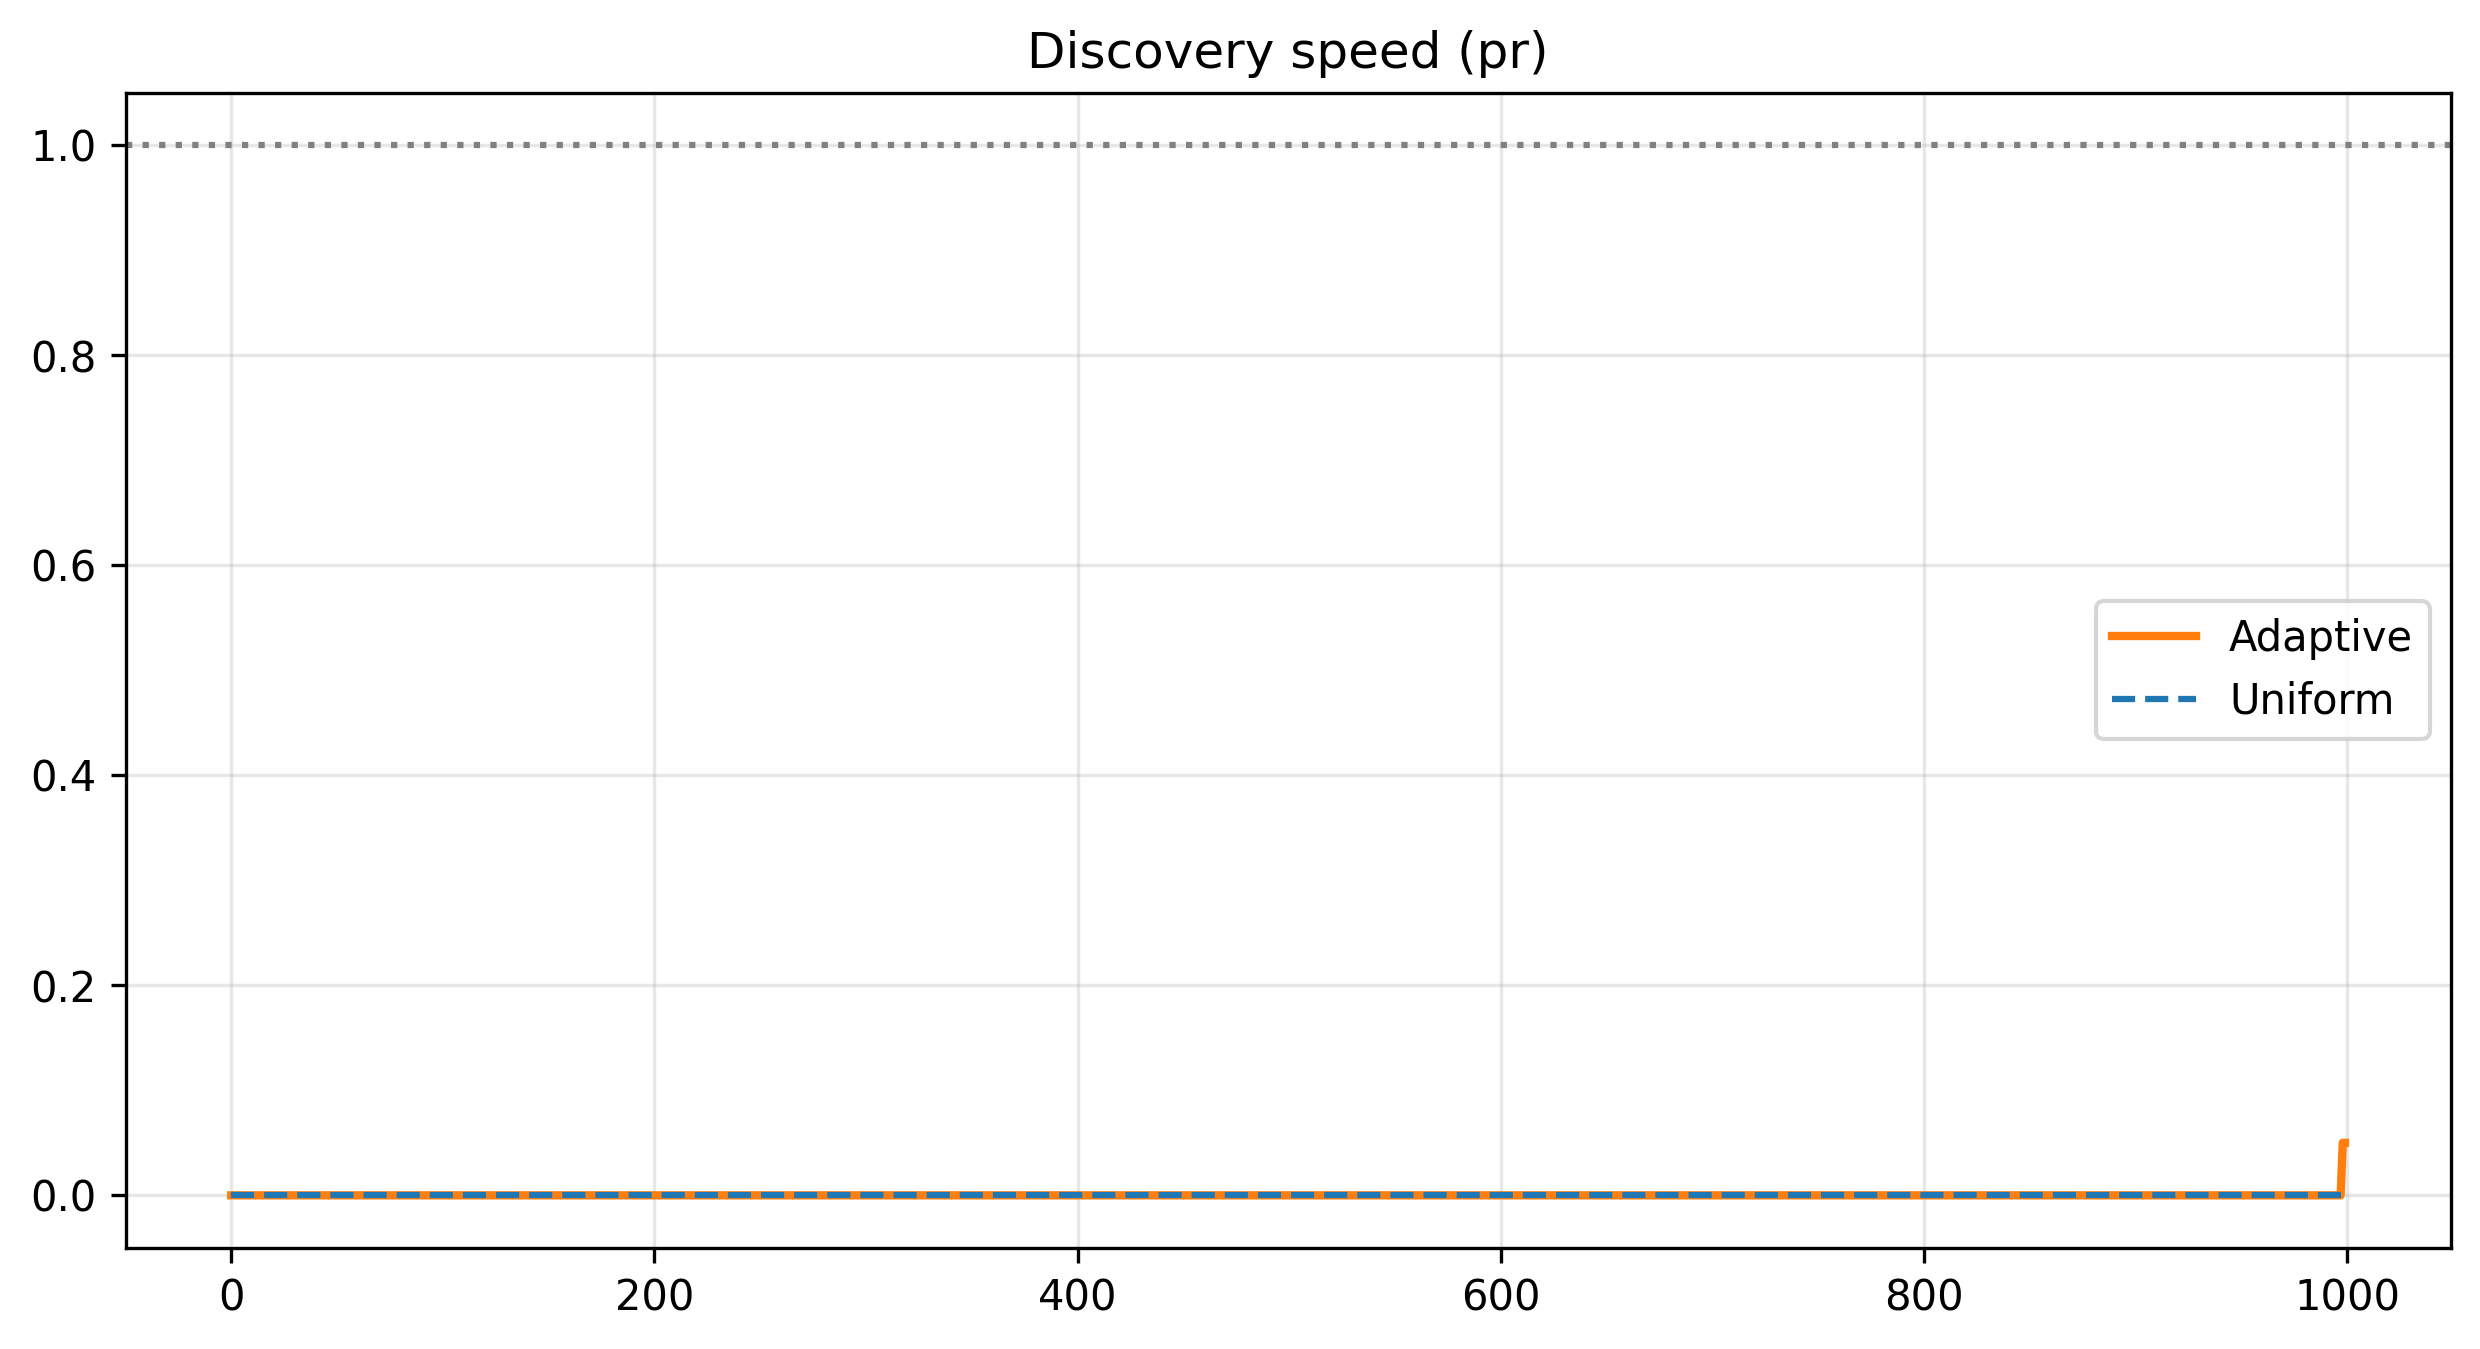
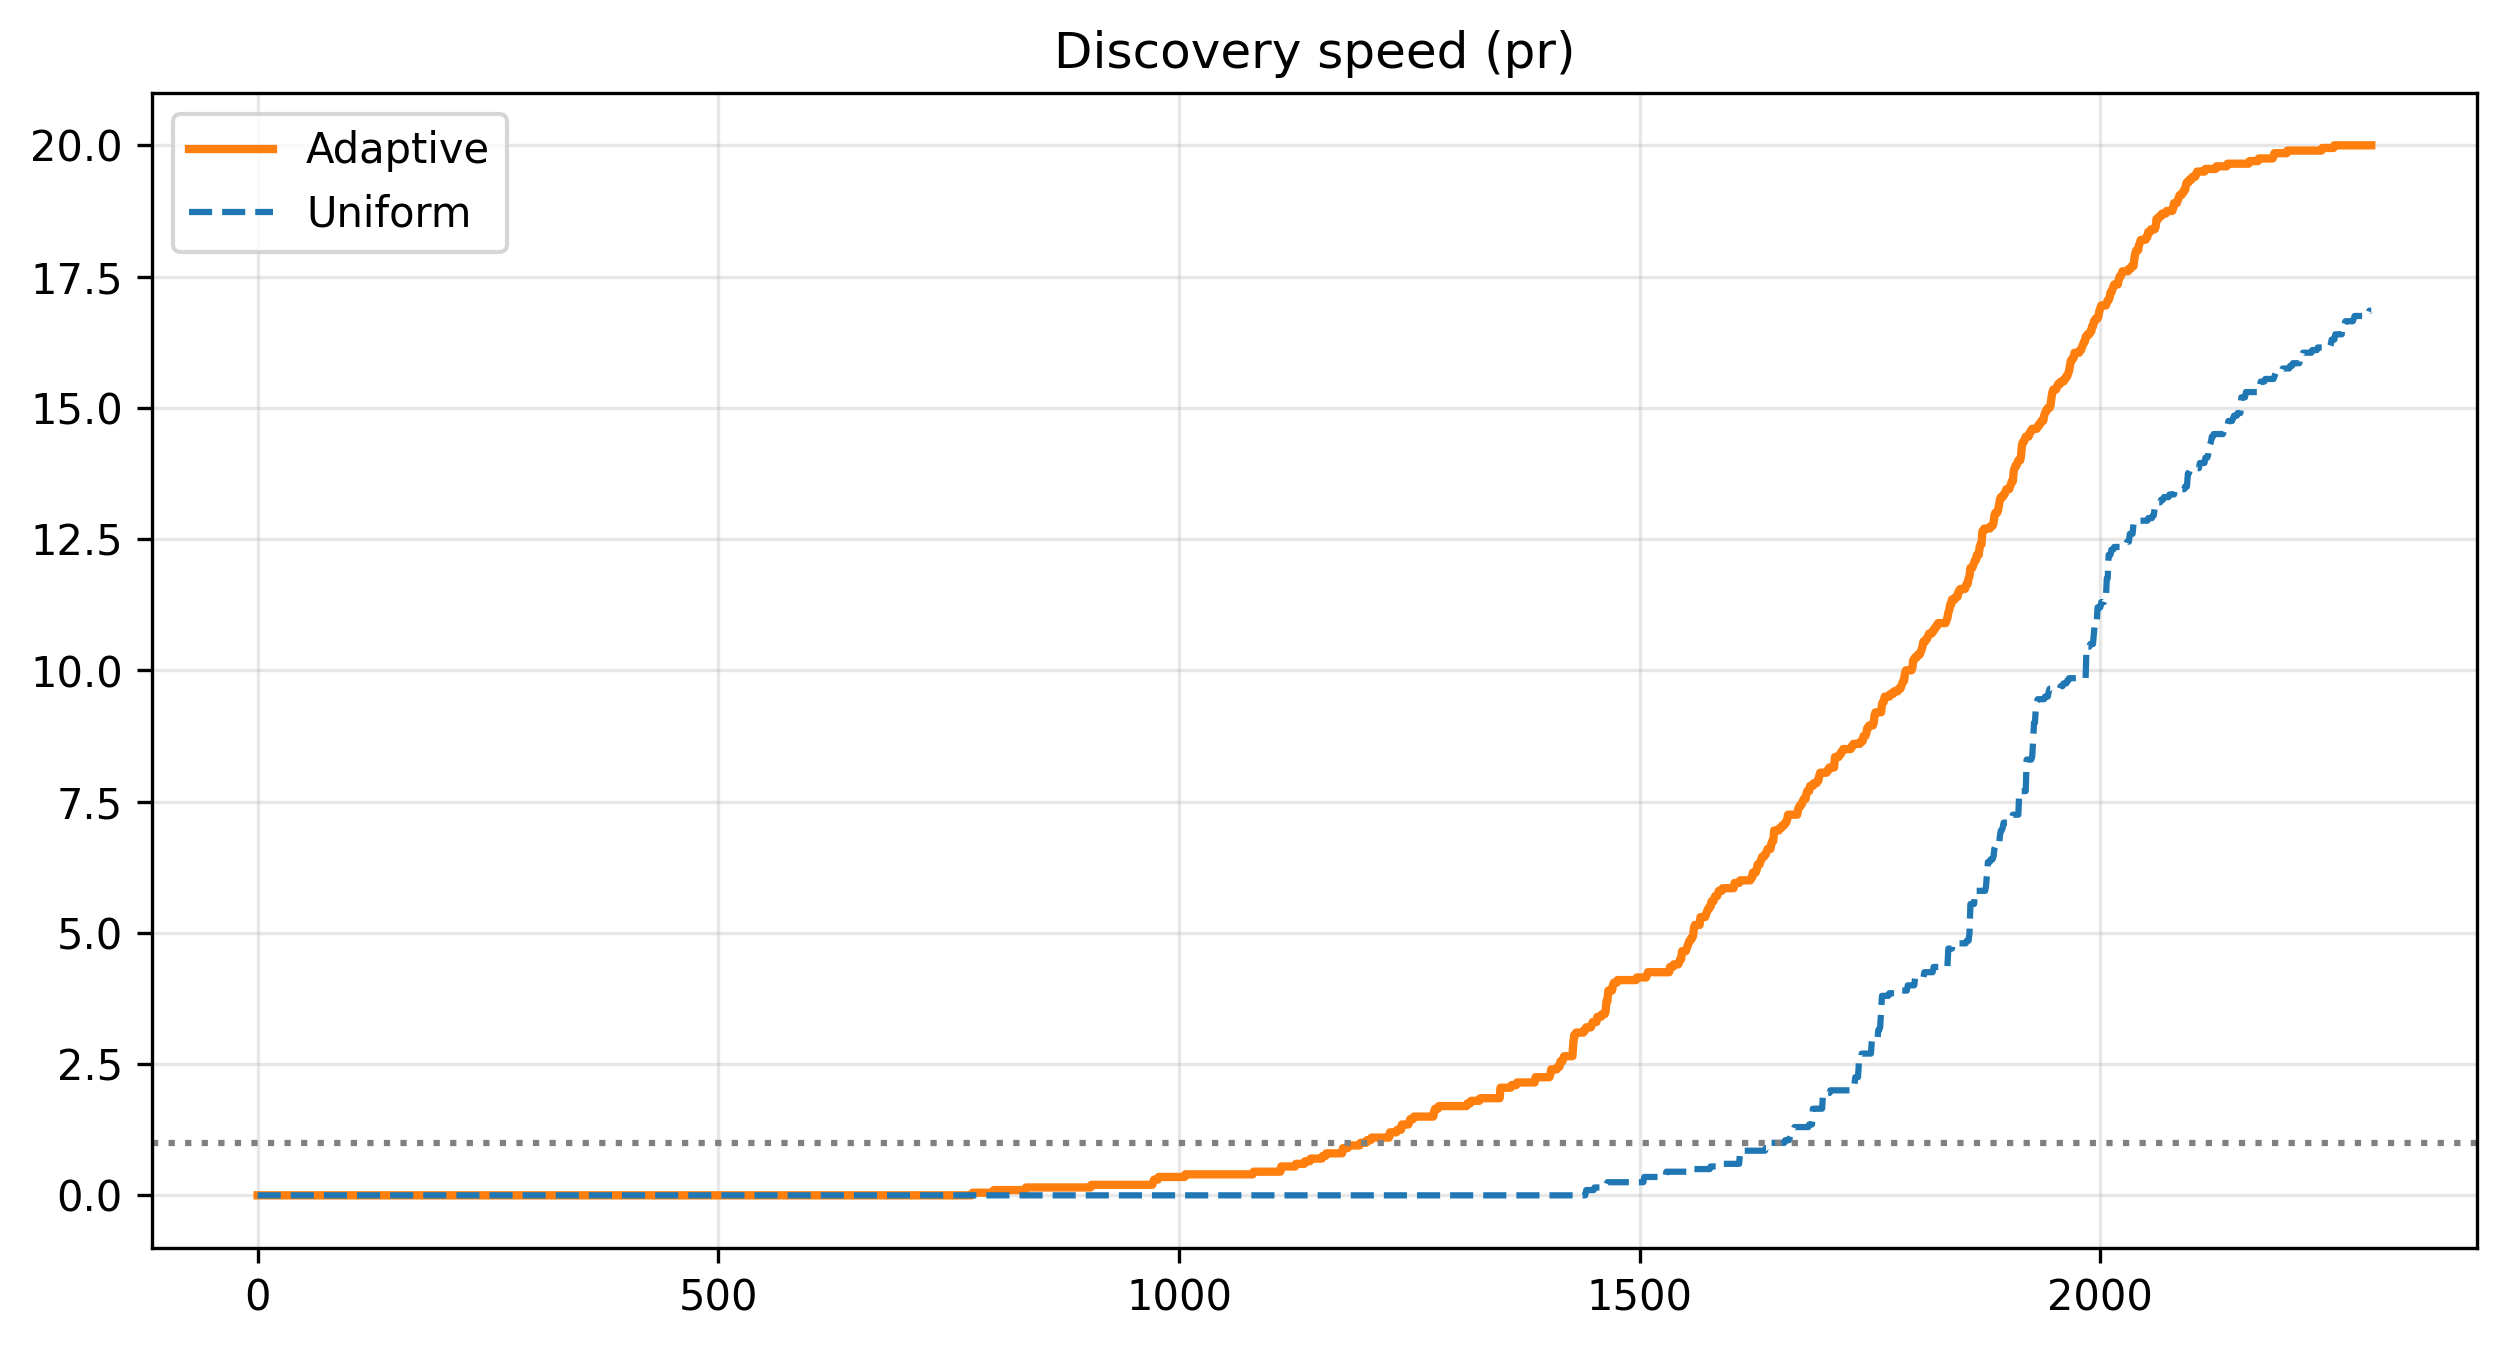
real data process horizon change

diff --git a/backend/real_data_processing.py b/backend/real_data_processing.py
@@ -106,10 +106,9 @@ for name, df in datasets.items():
 
 # --- 4. COMMENT UTILISER LES DONNÉES ---
 # Exemple pour lancer votre run_experiment avec les données de PENN :
-
 data_penn = results['penn']['data']
 arm_penn = results['penn']['arm_names']
-def get_min_samples(all_arm_data):
+def get_min_max_samples(all_arm_data):
     """
     Renvoie la taille du bras qui a le moins de données.
     Utile pour fixer l'horizon max de la simulation sans 'out of bounds'.
@@ -120,12 +119,13 @@ def get_min_samples(all_arm_data):
     
     # On calcule la longueur de chaque bras et on prend le minimum
     min_len = min(len(arm_data) for arm_data in first_simulation)
-    
-    return min_len
+    max_len = max(len(arm_data) for arm_data in first_simulation)
+
+    return min_len, max_len
 
 # --- Utilisation ---
-min_len = get_min_samples(data_penn)
-print("taille min =", min_len)
+min_len, max_len = get_min_max_samples(data_penn)
+print("taille min =", min_len, "taille max =", max_len)
 
 
 # -----------------------------------------------------------------------------
@@ -153,8 +153,8 @@ if __name__ == "__main__":
     n_arms = len(arm_penn)
         
     # 1. Run Simulations
-    pnb_unif, _, counts_unif_mean, counts_unif_list = usable_adaptative_algorithm.run_experiment(arm_penn, mu_0, delta, horizon=1000, mode='uniform', all_arm_data=data_penn, n_simulations=n_sims)
-    pnb_adapt, _, counts_adapt_mean, counts_adapt_list = usable_adaptative_algorithm.run_experiment(arm_penn, mu_0, delta, horizon=1000, mode='adaptive', all_arm_data=data_penn, n_simulations=n_sims)
+    pnb_unif, _, counts_unif_mean, counts_unif_list = usable_adaptative_algorithm.run_experiment(arm_penn, mu_0, delta, horizon, mode='uniform', all_arm_data=data_penn, n_simulations=n_sims)
+    pnb_adapt, _, counts_adapt_mean, counts_adapt_list = usable_adaptative_algorithm.run_experiment(arm_penn, mu_0, delta, horizon, mode='adaptive', all_arm_data=data_penn, n_simulations=n_sims)
 
     
     # --- PLOT 1: pr ---
@@ -227,3 +227,6 @@ if __name__ == "__main__":
     print("Displaying plots...")
     plt.tight_layout()
     plt.savefig(git_root / "figure_real_data/figure3.png", dpi=300, bbox_inches="tight")
+
+
+# attention changer le controle !!!!!
